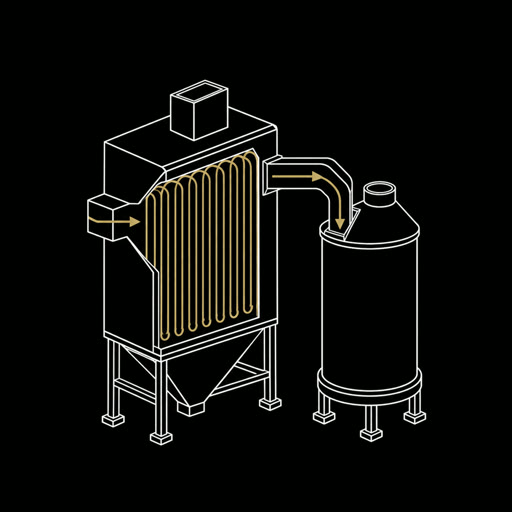
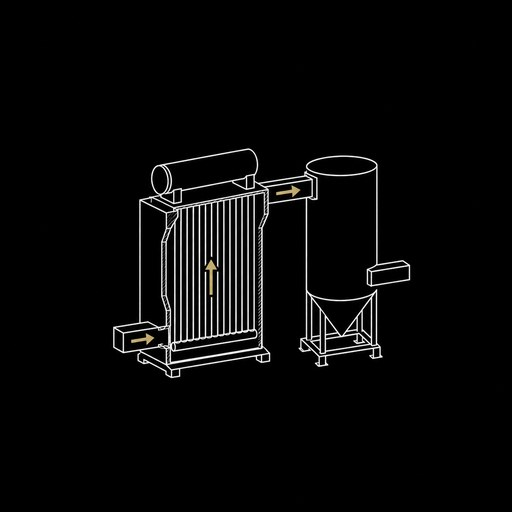
incineration: redraw boiler line art (straight water tubes, drum, gas cooler)

Changed region(s): [[0.1562, 0.1562, 0.8438, 0.875]]

diff --git a/incineration.html b/incineration.html
@@ -183,7 +183,7 @@
     <div class="inc-cols">
       <article><figure class="inc-eq"><img src="assets/inc-eq1.jpg?v=20261106" alt="ごみの受入ピットと天井クレーンのつかみ" width="512" height="512" decoding="async"></figure><h3><small>01</small>受入・ピット</h3><p class="pain">ごみ質の振れが大きい</p><dl><dt>計算で確かめる</dt><dd>水分・発熱量の振れが燃焼に響く幅</dd><dt>若手に残す</dt><dd>混ぜ方と投入量の判断表</dd></dl></article>
       <article><figure class="inc-eq"><img src="assets/inc-eq2.jpg?v=20261106" alt="ロータリーキルンと二次燃焼室" width="512" height="512" decoding="async"></figure><h3><small>02</small>燃焼（炉）</h3><p class="pain">温度が上がらない日がある／COが出る</p><dl><dt>計算で確かめる</dt><dd>空気量と熱の収支、処理量の上限</dd><dt>若手に残す</dt><dd>温度・酸素・COを見て操作する理由</dd></dl></article>
-      <article><figure class="inc-eq"><img src="assets/inc-eq3.jpg?v=20261106" alt="廃熱ボイラと減温塔" width="512" height="512" decoding="async"></figure><h3><small>03</small>ボイラ・減温</h3><p class="pain">付着物が増える・詰まる</p><dl><dt>計算で確かめる</dt><dd>排ガスの温度と量の変化</dd><dt>若手に残す</dt><dd>清掃の時期の目安</dd></dl></article>
+      <article><figure class="inc-eq"><img src="assets/inc-eq3.jpg?v=20261108" alt="廃熱ボイラと減温塔" width="512" height="512" decoding="async"></figure><h3><small>03</small>ボイラ・減温</h3><p class="pain">付着物が増える・詰まる</p><dl><dt>計算で確かめる</dt><dd>排ガスの温度と量の変化</dd><dt>若手に残す</dt><dd>清掃の時期の目安</dd></dl></article>
       <article><figure class="inc-eq"><img src="assets/inc-eq4.jpg?v=20261106" alt="バグフィルタ" width="512" height="512" decoding="async"></figure><h3><small>04</small>バグフィルタ</h3><p class="pain">差圧が上がる・ろ布が早く傷む</p><dl><dt>計算で確かめる</dt><dd>排ガスの量と温度による負荷</dd><dt>若手に残す</dt><dd>差圧の見方と対処の順番</dd></dl></article>
       <article><figure class="inc-eq"><img src="assets/inc-eq5.jpg?v=20261106" alt="誘引ファンと煙突" width="512" height="512" decoding="async"></figure><h3><small>05</small>誘引ファン・煙突</h3><p class="pain">処理量を上げると負圧が保てない</p><dl><dt>計算で確かめる</dt><dd>風量と静圧の余裕</dd><dt>若手に残す</dt><dd>負圧が崩れたときの判断</dd></dl></article>
       <article><figure class="inc-eq"><img src="assets/inc-eq6.jpg?v=20261106" alt="薬剤サイロと灰のコンテナ" width="512" height="512" decoding="async"></figure><h3><small>06</small>灰・薬剤</h3><p class="pain">薬剤の使用量が多い</p><dl><dt>計算で確かめる</dt><dd>薬剤量と排ガス量の関係</dd><dt>若手に残す</dt><dd>使用量の決め方</dd></dl></article>
